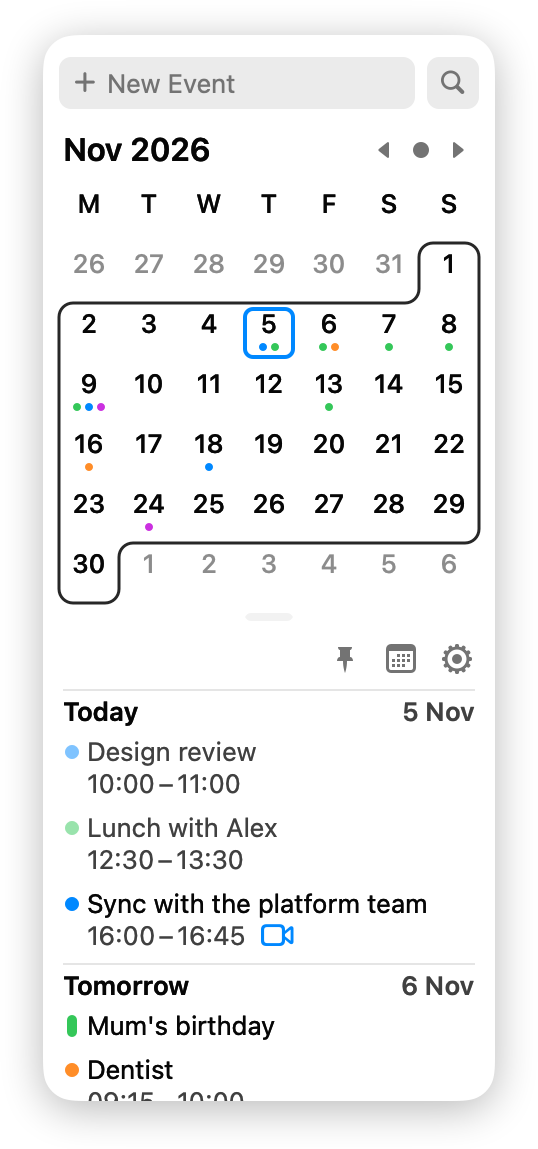
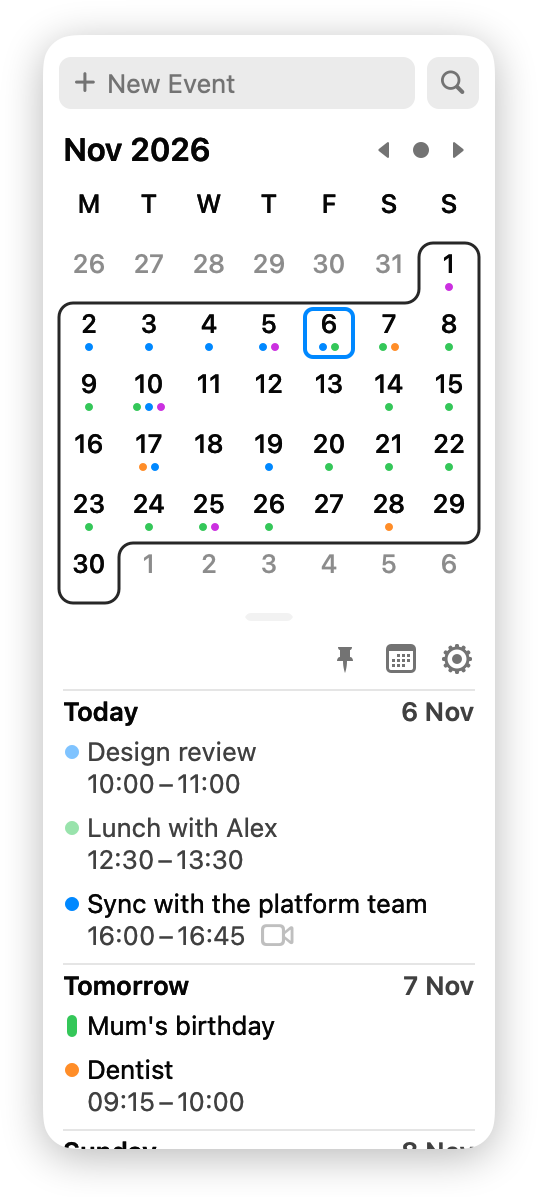
Show the Lines and Details styles in the README
Replace the dark mode and inline form screenshots with the Lines and
Details calendar styles, retake the overview, and show all six at one
scale. Add the three styles to the list of changes.

diff --git a/README.md b/README.md
@@ -4,14 +4,14 @@ Forked from [Itsycal](https://github.com/sfsam/Itsycal)
 
 <table>
   <tr>
-    <td align="center" valign="top" width="33%">Calendar and agenda<br><img src="docs/screenshots/overview.png" alt="The calendar and a scrolling agenda, with the New Event and Search fields above them" width="260"></td>
-    <td align="center" valign="top" width="33%">Type an event in plain language<br><img src="docs/screenshots/quick-add.png" alt="An event typed in natural language, with the understood parts tinted and a summary below" width="260"></td>
-    <td align="center" valign="top" width="33%">Place suggestions as you type<br><img src="docs/screenshots/places.png" alt="Place suggestions floating over the window while typing a location" width="260"></td>
+    <td align="center" valign="top">Calendar and agenda<br><img src="docs/screenshots/overview.png" alt="The calendar and a scrolling agenda, with the New Event and Search fields above them" width="216"></td>
+    <td align="center" valign="top">Events as lines<br><img src="docs/screenshots/calendar-lines.png" alt="The calendar with a line under the dates of each all-day event, across the days of the ones that last several days, and dots for events at a time" width="216"></td>
+    <td align="center" valign="top">Event titles in the calendar<br><img src="docs/screenshots/calendar-details.png" alt="A wider calendar with each event's title written in its day and faint lines between the weeks" width="317"></td>
   </tr>
   <tr>
-    <td align="center" valign="top">Full details, inline<br><img src="docs/screenshots/details.png" alt="The full event form open inside the window" width="260"></td>
-    <td align="center" valign="top">Search your events<br><img src="docs/screenshots/search.png" alt="Search results replacing the agenda" width="260"></td>
-    <td align="center" valign="top">Dark mode<br><img src="docs/screenshots/dark.png" alt="The same window in dark mode" width="260"></td>
+    <td align="center" valign="top">Type an event in plain language<br><img src="docs/screenshots/quick-add.png" alt="An event typed in natural language, with the understood parts tinted and a summary below" width="216"></td>
+    <td align="center" valign="top">Place suggestions as you type<br><img src="docs/screenshots/places.png" alt="Place suggestions floating over the window while typing a location" width="216"></td>
+    <td align="center" valign="top">Search your events<br><img src="docs/screenshots/search.png" alt="Search results replacing the agenda" width="216"></td>
   </tr>
 </table>
 
@@ -20,6 +20,7 @@ Forked from [Itsycal](https://github.com/sfsam/Itsycal)
 - Place suggestions while typing `at <place>` or filling in the location field. They use Apple's MapKit, so the place text you type is sent to Apple. Nothing is sent until you type a place.
 - Search events by title, location or notes across the next 12 months. The New Event and Search fields swap places with a click, or with ⌘N and ⌘F.
 - The full event form opens inline in the window instead of in a popover.
+- Three ways to show events in the calendar, under Settings → Appearance → Show events as: Dots, as in Itsycal; Lines, with a line across the days of each all-day or multi-day event; and Details, with each event's title in its day.
 - The agenda is a scrolling list. Drag the window's bottom edge to make it taller or shorter, and double-click the edge to reset it.
 - Slightly wider calendar, and spacing and type sizes that follow the size setting throughout.
 - Removed the Sparkle auto-updater, which checked Itsycal's update feed. To update, download the latest release or rebuild from source.
